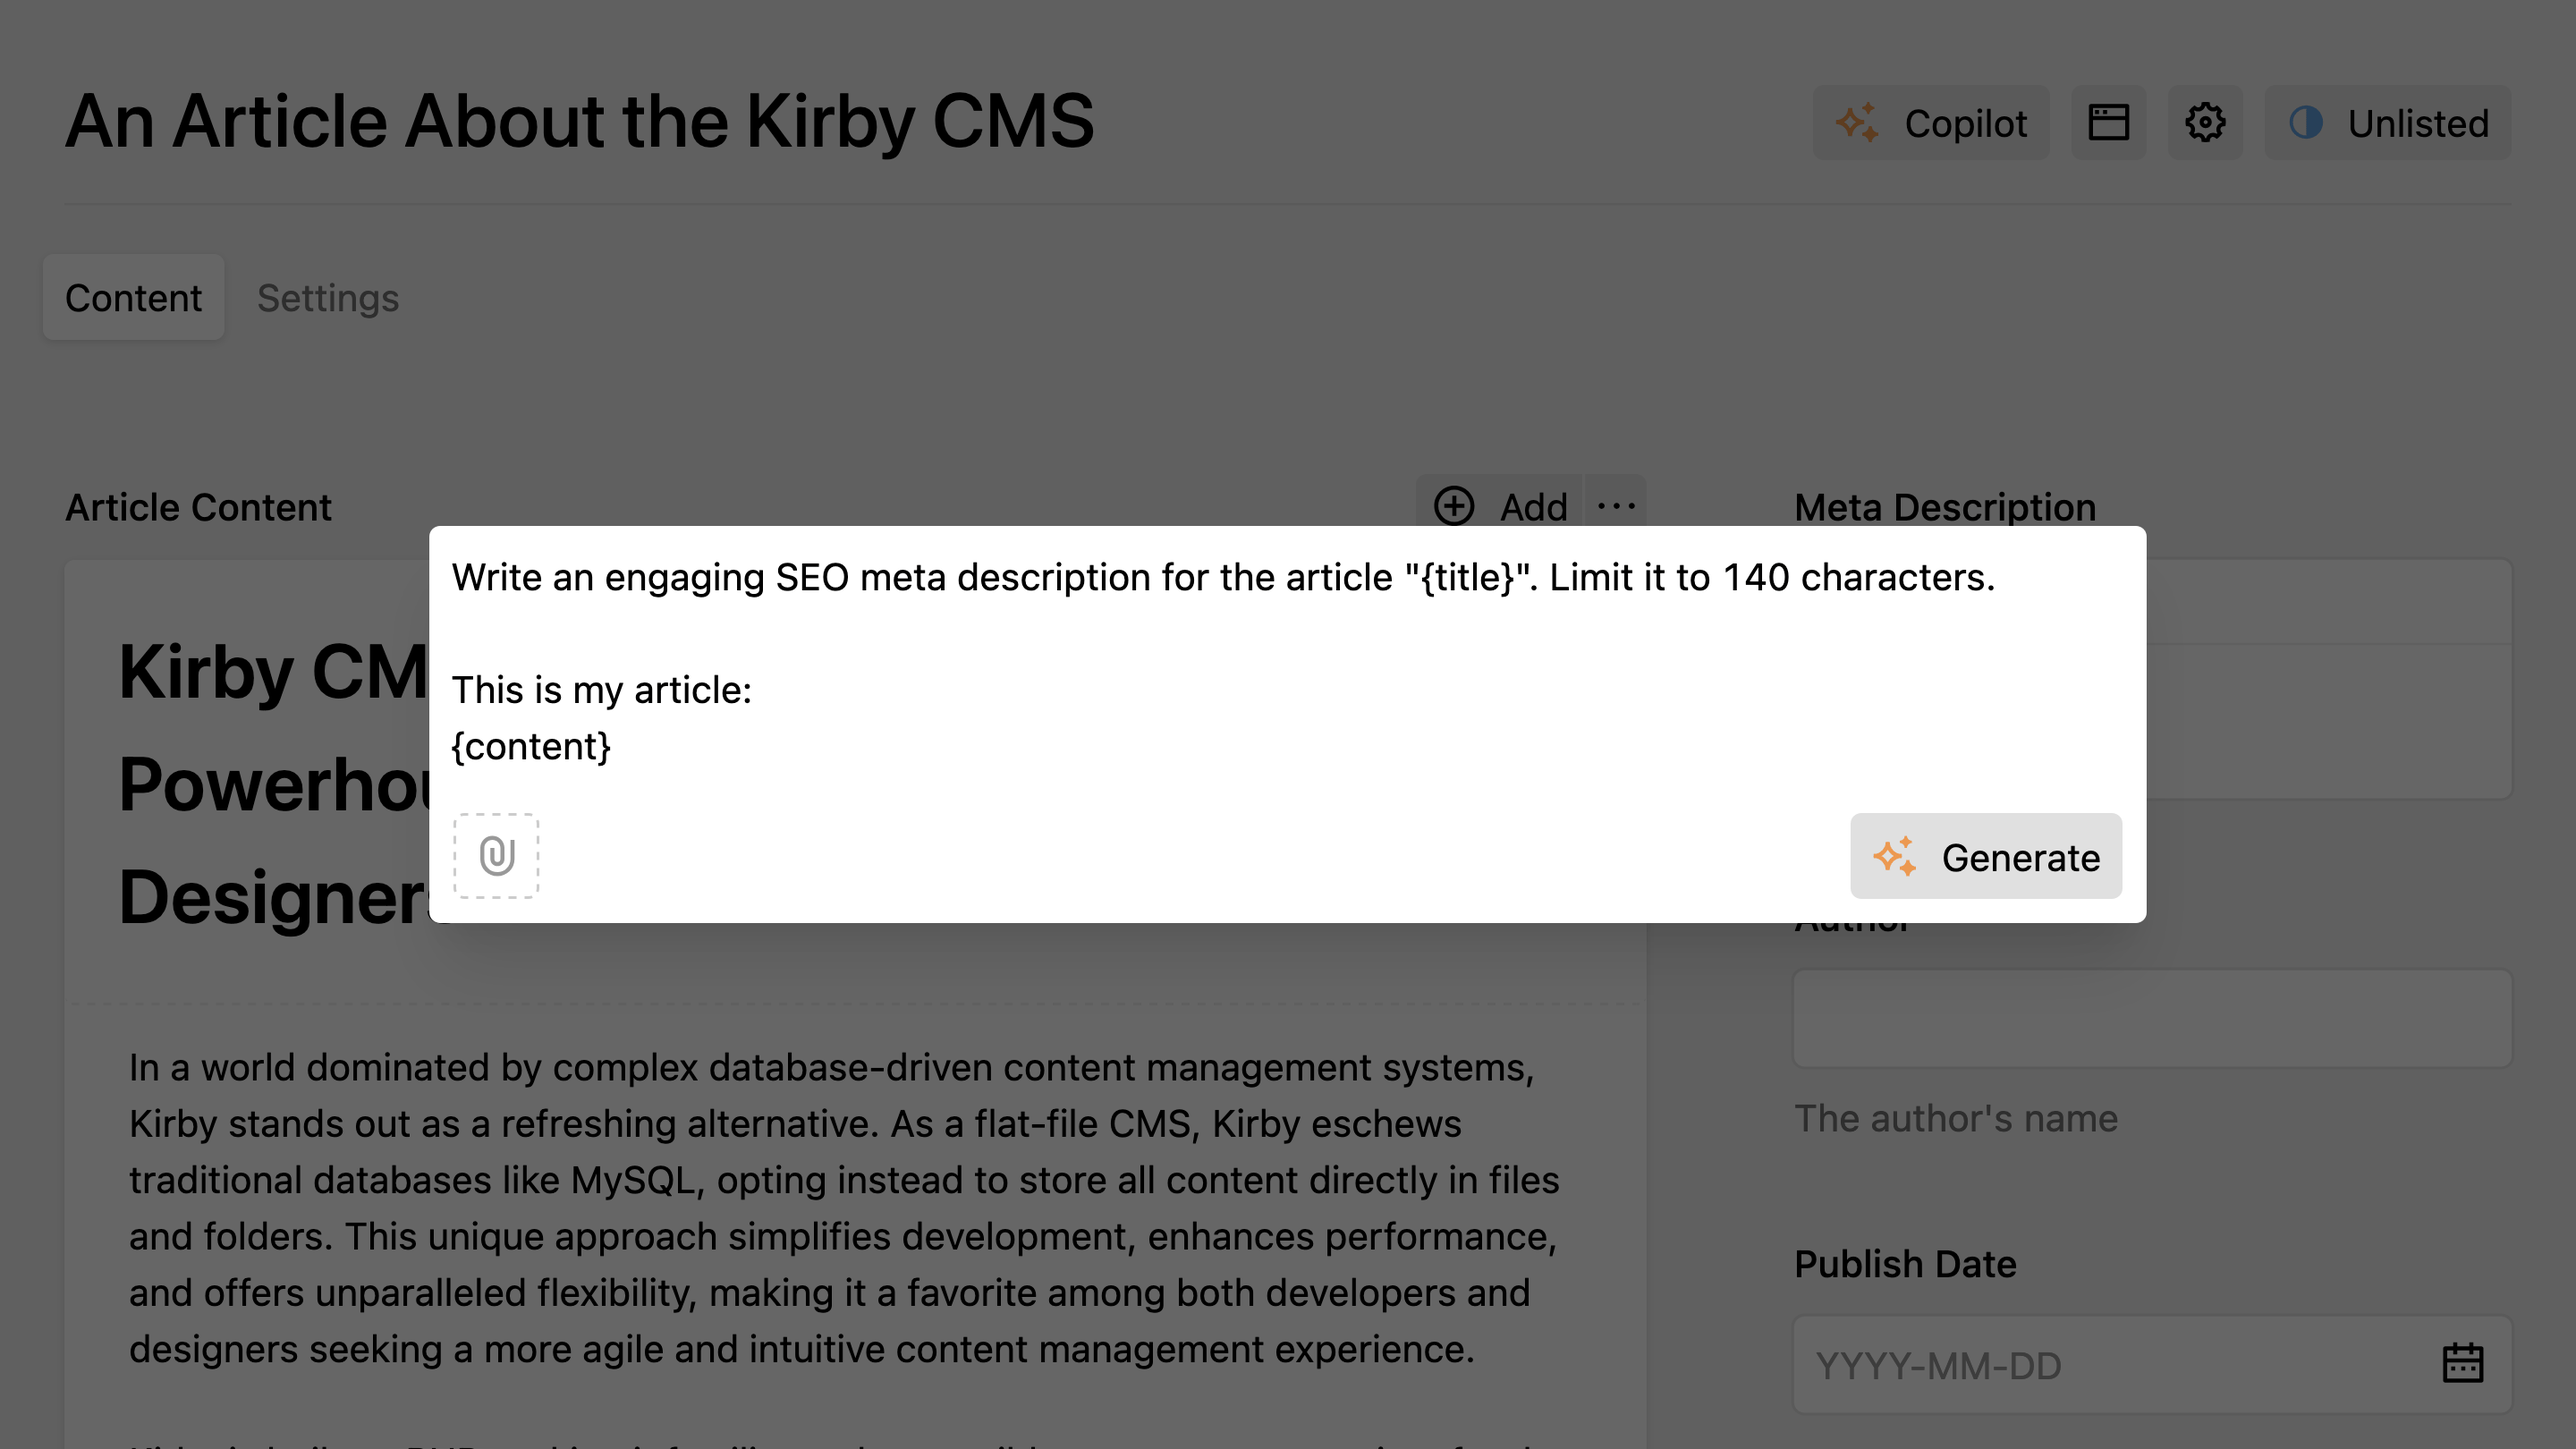
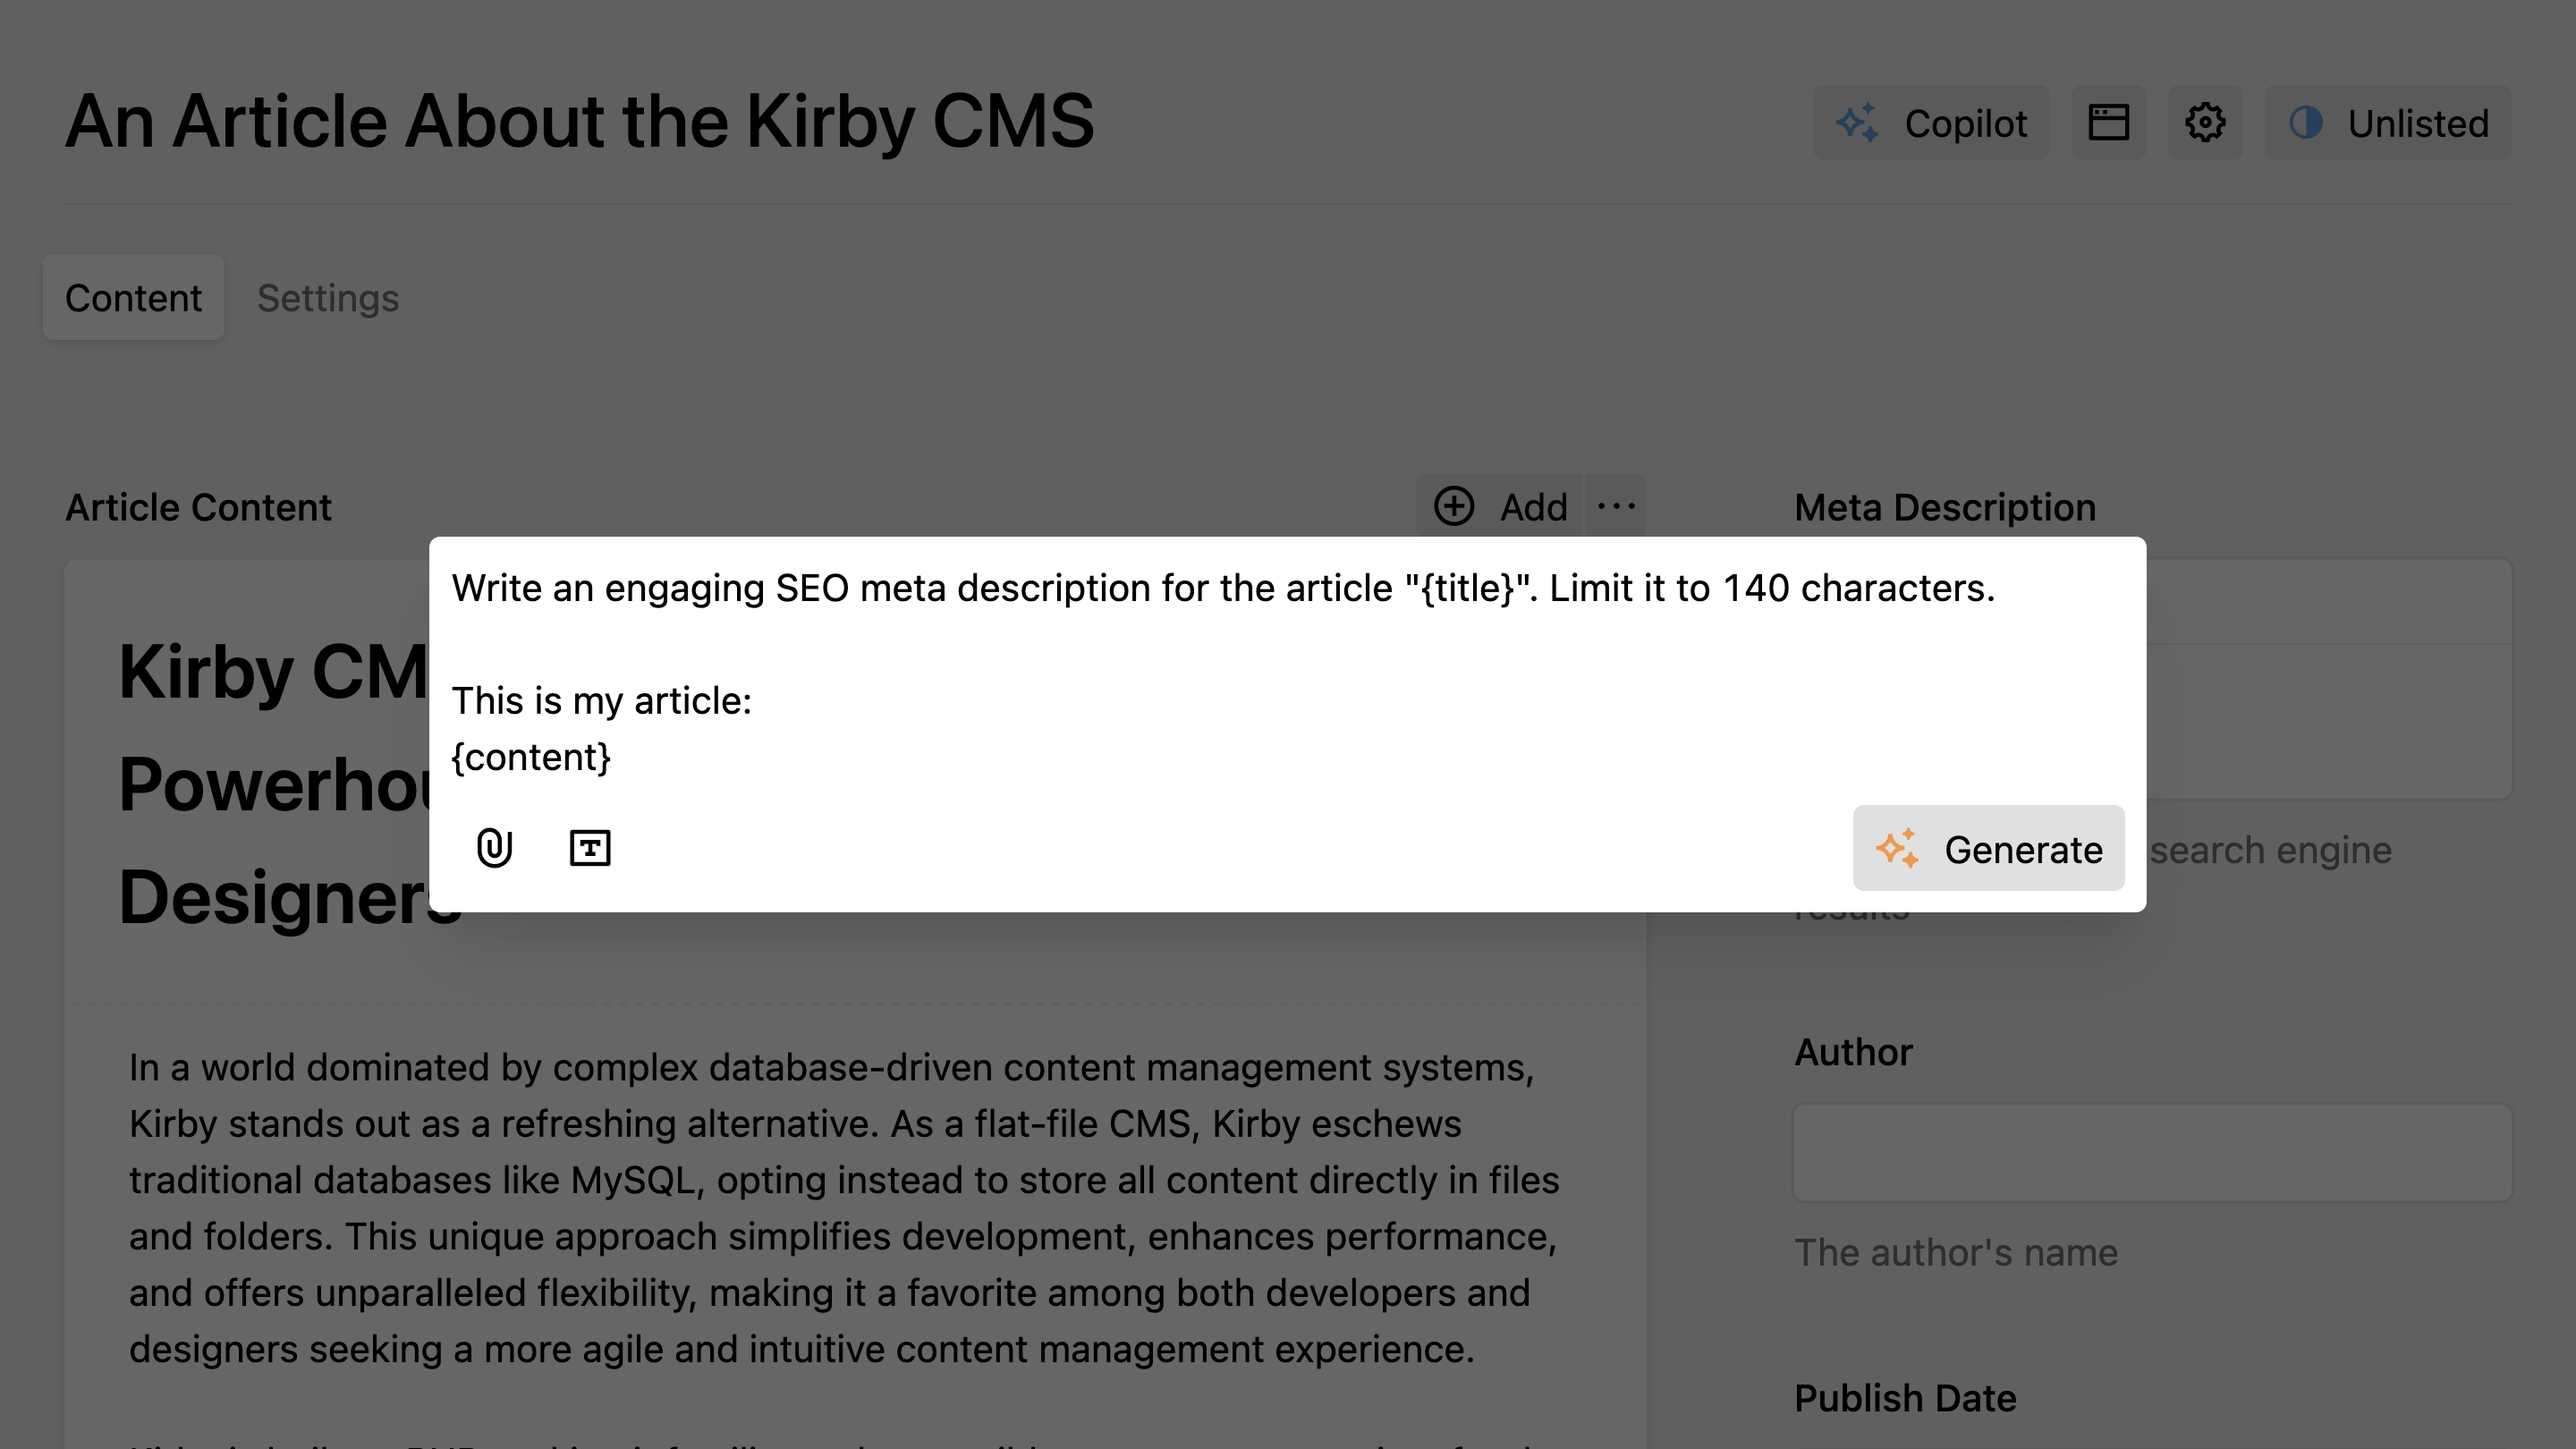
docs(copilot): add v2.9.0 features including native PDF parsing and insert field placeholder button

diff --git a/content/1.docs/3.copilot/3.usage/5.files.md b/content/1.docs/3.copilot/3.usage/5.files.md
@@ -45,15 +45,23 @@ The section above will use the current file of a Kirby file model as context for
 
 :prose-video{src="/vid/kirby-copilot-generate-image-alt.mp4" poster="/vid/kirby-copilot-generate-image-alt-poster.jpg" width="908" height="540"}
 
-## Extracting Text From PDFs
+## Processing PDF Files
 
-A PDF file can be used to support user prompts with information that the AI can incorporate to generate the answer. For example, you can select a PDF with a product description and ask the AI to summarize the product.
+PDF files can be used to support user prompts with information that the AI can incorporate to generate answers. For example, you can select a PDF with a product description and ask the AI to summarize the product.
 
 :prose-video{src="/vid/kirby-copilot-pdf-files.mp4" poster="/vid/kirby-copilot-pdf-files-poster.jpg" width="908" height="540"}
 
-When selecting PDF files with the [Select files](/docs/copilot/configuration/local#files) button, the plugin will extract the text from the PDF. This extraction process happens directly in the browser with [Mozilla's PDF.js](https://github.com/mozilla/pdf.js) library and does not require any server-side processing.
+### Native PDF Parsing
 
-Before the instruction is sent to your AI provider, the extracted text is added to the user prompt.
+When selecting PDF files with the [Select files](/docs/copilot/configuration/local#files) button, the plugin uses **native PDF parsing** by default. Modern AI models like OpenAI's latest models and Google Gemini support reading PDF files directly, which provides the most accurate results.
+
+The PDF file is sent directly to the AI provider along with your prompt, allowing the model to understand the document's structure, formatting, and content natively.
+
+### Fallback to Text Extraction
+
+For PDF files **larger than 50 MB**, the plugin automatically falls back to text extraction. This extraction process happens directly in the browser with [Mozilla's PDF.js](https://github.com/mozilla/pdf.js) library and does not require any server-side processing.
+
+When using text extraction, the extracted text is added to your user prompt before being sent to the AI provider.
 
 For example, if this is your user prompt:
 
@@ -74,7 +82,3 @@ Summarize the product in 200 words.
 (Extracted text from PDF document 2)
 </pdf_document_2>
 ```
-
-::callout{icon="i-ri-information-line" color="info" to="/docs/copilot/configuration/system-prompt"}
-The system prompt instructs the AI model on how to process the appended PDF texts.
-::

diff --git a/content/1.docs/3.copilot/2.configuration/3.system-prompt.md b/content/1.docs/3.copilot/2.configuration/3.system-prompt.md
@@ -12,21 +12,19 @@ In Kirby Copilot v2, the system prompt has been rewritten to fit most use cases.
 When a user submits a prompt, the AI model receives the following information:
 
 - The selected text of `writer` or `textarea` fields.
-- Additional context from PDF documents (if appended to the prompt).
+- Optional extracted text from PDF documents (if appended PDF files exceed 50 MB, otherwise they are sent natively to the AI model).
 
 If you don't provide a `systemPrompt`, the plugin will use the following default prompt:
 
 ```txt
-You are an AI assistant integrated into the Kirby CMS Panel. Your primary task is to help users generate content for various field types within the CMS. You must provide relevant and helpful content based on the user's question and the specified field type, while considering any provided context.
+You are a content assistant.
 
-Consider the user context if provided:
-- If selected_text is provided, use it as context for the user's question.
-- If pdf_documents are provided, incorporate the information from these documents into your response as applicable.
+When <response_format> is provided, format your response as:
+- "text": Plain text only, no formatting syntax.
+- "markdown": Raw Markdown, no code fence wrappers.
+- "HTML": Only body-level tags (<p>, <h2>, <ul>, <a>, etc.), no <html>/<body>.
 
-Format your response according to the specified response_format if provided:
-1. If response_format is "text", provide your response in plain text without any Markdown or HTML syntax.
-2. If response_format is "HTML", format your response using HTML syntax. Only include the content that would go inside the <body> element. Use appropriate HTML tags to structure your response, including <h2> or <h3> tags for section headings.
-3. If response_format is "markdown", format your response using Markdown syntax. Do not use backticks or any other wrapping characters around your response.
+When <selected_text> is provided, use it as context for your response.
 ```
 
 ## Response Formats

diff --git a/content/1.docs/3.copilot/3.usage/4.placeholders.md b/content/1.docs/3.copilot/3.usage/4.placeholders.md
@@ -16,8 +16,14 @@ If the field value is not a primitive (e.g. a string, number, or boolean), it wi
 Before the user prompt above is sent to the AI model, the placeholder `{content}` is replaced with the actual field value of the main content.
 
 ::tip
-Whether you use the Copilot Panel view button, the tooltip buttons or the Copilot section, the placeholders are available in every user prompt.
+Whether you use the Copilot Panel view button, the toolbar buttons or the Copilot section, the placeholders are available in every user prompt.
 ::
+
+## Insert Field Placeholder Button :u-badge{label="since v2.9.0" class="align-middle mb-1 ml-2 rounded-full" variant="subtle"}
+
+Instead of typing placeholders manually, you can use the **Insert field placeholder** button in the prompt dialog toolbar next to the attachment icon. Click the button to open a dropdown menu that lists all available fields from the current Kirby model. Selecting a field inserts the placeholder at the current cursor position in the prompt textarea.
+
+:prose-video{src="/vid/copilot-placeholder-dropdown.mp4" poster="/vid/copilot-placeholder-dropdown-poster.jpg" width="908" height="540"}
 
 ## Examples
 

diff --git a/content/1.docs/3.copilot/3.usage/1.view-button.md b/content/1.docs/3.copilot/3.usage/1.view-button.md
@@ -44,7 +44,11 @@ This way, you can reference the default buttons and decide where to place the `c
 
 ## Using the View Button
 
-Clicking the button opens the Copilot prompt dialog, which allows you to generate content for the fields in the current view. You can select multiple fields at once, making it easy to generate content for multiple fields in one go.
+Clicking the button opens the Copilot prompt dialog, which allows you to generate content for the fields in the current view. You can select multiple fields from the fields dropdown next to the generate button, making it easy to generate content for multiple fields in one go.
+
+::tip
+Use the **Insert field placeholder** button in the prompt dialog to reference other content from the current model. See the [Fields as Context](/docs/copilot/usage/placeholders) documentation for more details.
+::
 
 ![Kirby Copilot fields selection in prompt dialog](/img/kirby-copilot-fields-selection.png)
 

diff --git a/content/1.docs/3.copilot/4.examples/2.section-blueprints.md b/content/1.docs/3.copilot/4.examples/2.section-blueprints.md
@@ -101,7 +101,7 @@ sections:
 
 ## Panel File as Context Source
 
-On a Kirby file page, you can pre-select the **current file** as context for the user prompt. This is useful if you want to generate text for a specific file, such as an image or PDF, that has already been uploaded to the Panel.
+On a Kirby file page, you can pre-select the **current file** as context for the user prompt. This is useful if you want to generate text for a specific file, such as an image or PDF file, that has already been uploaded to the Panel.
 
 Consider the following scenario: Your client is concerned about accessibility and wants to use alternative texts for all the images on their website. It would be too cumbersome to manually select each image as the context for the prompt. Instead, you can set the `files` option to `auto` and let the plugin automatically read the uploaded file:
 

diff --git a/content/3.copilot/changelog/v2.9.0.md b/content/3.copilot/changelog/v2.9.0.md
@@ -1,0 +1,11 @@
+---
+title: v2.9.0
+date: 2025-12-06
+---
+
+**🚀 Features**
+
+- **Native PDF parsing**: PDF files are now sent directly to the AI provider, allowing models to understand document structure, formatting, and content natively. For files larger than 50 MB, the plugin automatically falls back to text extraction. See the [Processing PDF Files](/docs/copilot/usage/files#processing-pdf-files) documentation.
+- New **Insert field placeholder** button in the prompt dialog. Click the dropdown to see all available fields from the current Kirby model and insert `{fieldName}` placeholders at the cursor position. See the [Fields as Context](/docs/copilot/usage/placeholders#insert-field-placeholder-button) documentation.
+
+:prose-video{src="/vid/copilot-placeholder-dropdown.mp4" poster="/vid/copilot-placeholder-dropdown-poster.jpg" width="908" height="540"}

diff --git a/content/1.docs/3.copilot/2.configuration/2.local.md b/content/1.docs/3.copilot/2.configuration/2.local.md
@@ -387,7 +387,7 @@ files: false
 ::preview{src="/img/copilot-section-config-files.png" alt="Copilot section with files configuration" width="1074" height="288"}
 ::
 
-On a Kirby file page, setting `files: auto` pre-selects the **current file as context** for the user prompt. This is useful for generating metadata like alternative text or descriptions based on the image or PDF, that has already been uploaded to the Panel:
+On a Kirby file page, setting `files: auto` pre-selects the **current file as context** for the user prompt. This is useful for generating metadata like alternative text or descriptions based on the image or PDF file that has already been uploaded to the Panel:
 
 ```yaml [sections/copilot.yml]
 type: copilot

diff --git a/content/1.docs/3.copilot/3.usage/3.toolbar-buttons.md b/content/1.docs/3.copilot/3.usage/3.toolbar-buttons.md
@@ -119,7 +119,7 @@ fields:
 ```
 
 ::tip
-This can be useful for generating meta descriptions based on the main content of a page, or for generating a summary of a text block. See the [Fields as Placeholders](/docs/copilot/usage/placeholders) documentation for an example.
+This can be useful for generating meta descriptions based on the main content of a page, or for generating a summary of a text block. See the [Fields as Context](/docs/copilot/usage/placeholders) documentation to learn how to use content placeholders in your prompts.
 ::
 
 ## Selected Text
